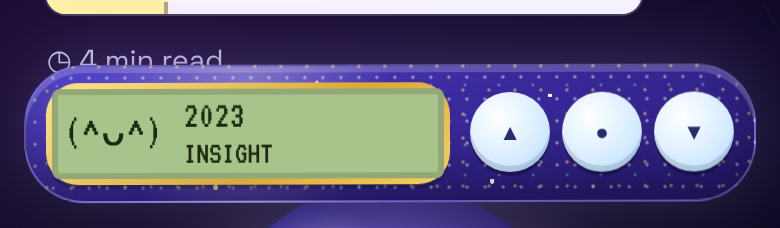
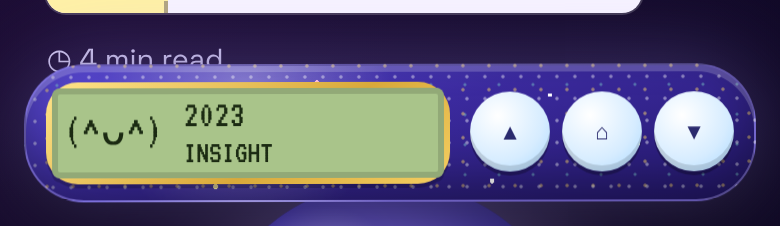
Pet navigator: home key, TT mark, larger moon
Claude-Session: https://claude.ai/code/session_0126NKCS3TtysyaQaZxswtoT

diff --git a/site/index.html b/site/index.html
@@ -128,9 +128,9 @@
   .p-next{--c1:#fff1a6;--c2:#ffb3d9;--glow:#fff1a677;--ring:#c9b6ffaa;--moon:#a8d8ff}
 
   /* Y2K: Tamagotchi spaceship = journey navigator */
-  .ship{position:fixed;z-index:20;right:clamp(16px,2.5vw,36px);bottom:clamp(18px,3vw,40px);width:178px;transition:transform .9s cubic-bezier(.2,.8,.2,1)}
+  .ship{position:fixed;z-index:20;right:clamp(16px,2.5vw,36px);bottom:clamp(18px,3vw,40px);width:186px;transition:transform .9s cubic-bezier(.2,.8,.2,1)}
   /* virtual-pet egg: glitter galaxy shell, gold starburst bezel */
-  .ship-body{position:relative;padding:30px 20px 16px;border-radius:50% 50% 47% 47%/58% 58% 42% 42%;
+  .ship-body{position:relative;padding:30px 24px 16px;border-radius:50% 50% 47% 47%/58% 58% 42% 42%;
     background:
       radial-gradient(circle at 30% 18%,#ffffff55,transparent 28%),
       radial-gradient(1.2px 1.2px at 18% 30%,#fff1a6 99%,transparent),radial-gradient(1px 1px at 72% 22%,#fff 99%,transparent),
@@ -144,8 +144,9 @@
     border:1.5px solid #ffffff38;box-shadow:inset 0 3px 0 #ffffff30,inset 0 -10px 24px #0005,0 0 40px #9b86ff55,0 12px 30px #0009;animation:bob 4s ease-in-out infinite}
   .deco{position:absolute;inset:0;pointer-events:none;color:#ffd86b;text-shadow:0 0 6px #ffd86b88}
   .deco i{position:absolute;font-style:normal;line-height:1}
-  .deco i:nth-child(1){left:13px;top:46%;font-size:1.1rem}
-  .deco i:nth-child(2){right:16px;top:18%;font-size:.8rem}
+  .deco i:nth-child(1){left:7px;top:43%;font-size:1.55rem}
+  .eggmark{display:block;text-align:center;font-family:VT323,monospace;font-size:.95rem;letter-spacing:.3em;color:#ffd86b;text-shadow:0 0 6px #ffd86b66;margin:-14px 0 6px}
+  .deco i:nth-child(2){right:22px;top:12%;font-size:.8rem}
   .deco i:nth-child(3){right:30px;bottom:14px;font-size:.75rem}
   .bezel{padding:8px;background:linear-gradient(145deg,#ffe48a,#d9a93a 60%,#f5cf62);clip-path:polygon(8% 0,22% 5%,36% 0,50% 5%,64% 0,78% 5%,92% 0,100% 10%,95% 26%,100% 42%,95% 58%,100% 74%,95% 90%,100% 100%,78% 95%,64% 100%,50% 95%,36% 100%,22% 95%,8% 100%,0 90%,5% 74%,0 58%,5% 42%,0 26%,5% 10%);filter:drop-shadow(0 2px 0 #0003)}
   .bezel .lcd{border-radius:4px;padding:4px 6px}
@@ -271,7 +272,7 @@
     .stop{padding-top:96px;padding-bottom:170px}
     .ship{width:auto;left:12px;right:12px;bottom:12px}
     .ship-body{display:flex;align-items:center;gap:10px;border-radius:30px;padding:8px 10px}
-    .antenna,.deco,.lcd .icons{display:none}
+    .antenna,.deco,.eggmark,.lcd .icons{display:none}
     .bezel{flex:1;clip-path:none;padding:3px;border-radius:16px}
     .keys .key:nth-child(2){margin-top:0}
     .lcd{flex:1;display:flex;align-items:center;gap:10px;text-align:left}
@@ -492,12 +493,13 @@
   <div class="ship-body">
     <div class="antenna" aria-hidden="true"></div>
     <span class="deco" aria-hidden="true"><i>☾</i><i>✦</i><i>★</i></span>
+    <span class="eggmark" aria-hidden="true">✦ TT ✦</span>
     <div class="bezel">
       <div class="lcd" aria-live="polite"><div class="icons" aria-hidden="true"><span>♥</span><span>✦</span><span>★</span><span>✉</span></div><div class="pet" id="pet" aria-hidden="true">(^ᴗ^)</div><div><div class="big" id="lcdYear">1993→2026</div><div id="lcdName">WELCOME</div></div><div class="icons" aria-hidden="true"><span>☺</span><span>♪</span><span>☾</span><span>⌂</span></div></div>
     </div>
     <div class="keys">
       <button class="key" id="prevBtn" type="button" aria-label="Previous stop">▲</button>
-      <button class="key" id="homeBtn" type="button" aria-label="Back to the start">●</button>
+      <button class="key" id="homeBtn" type="button" aria-label="Back to the top">⌂</button>
       <button class="key" id="nextBtn" type="button" aria-label="Next stop">▼</button>
     </div>
   </div>
